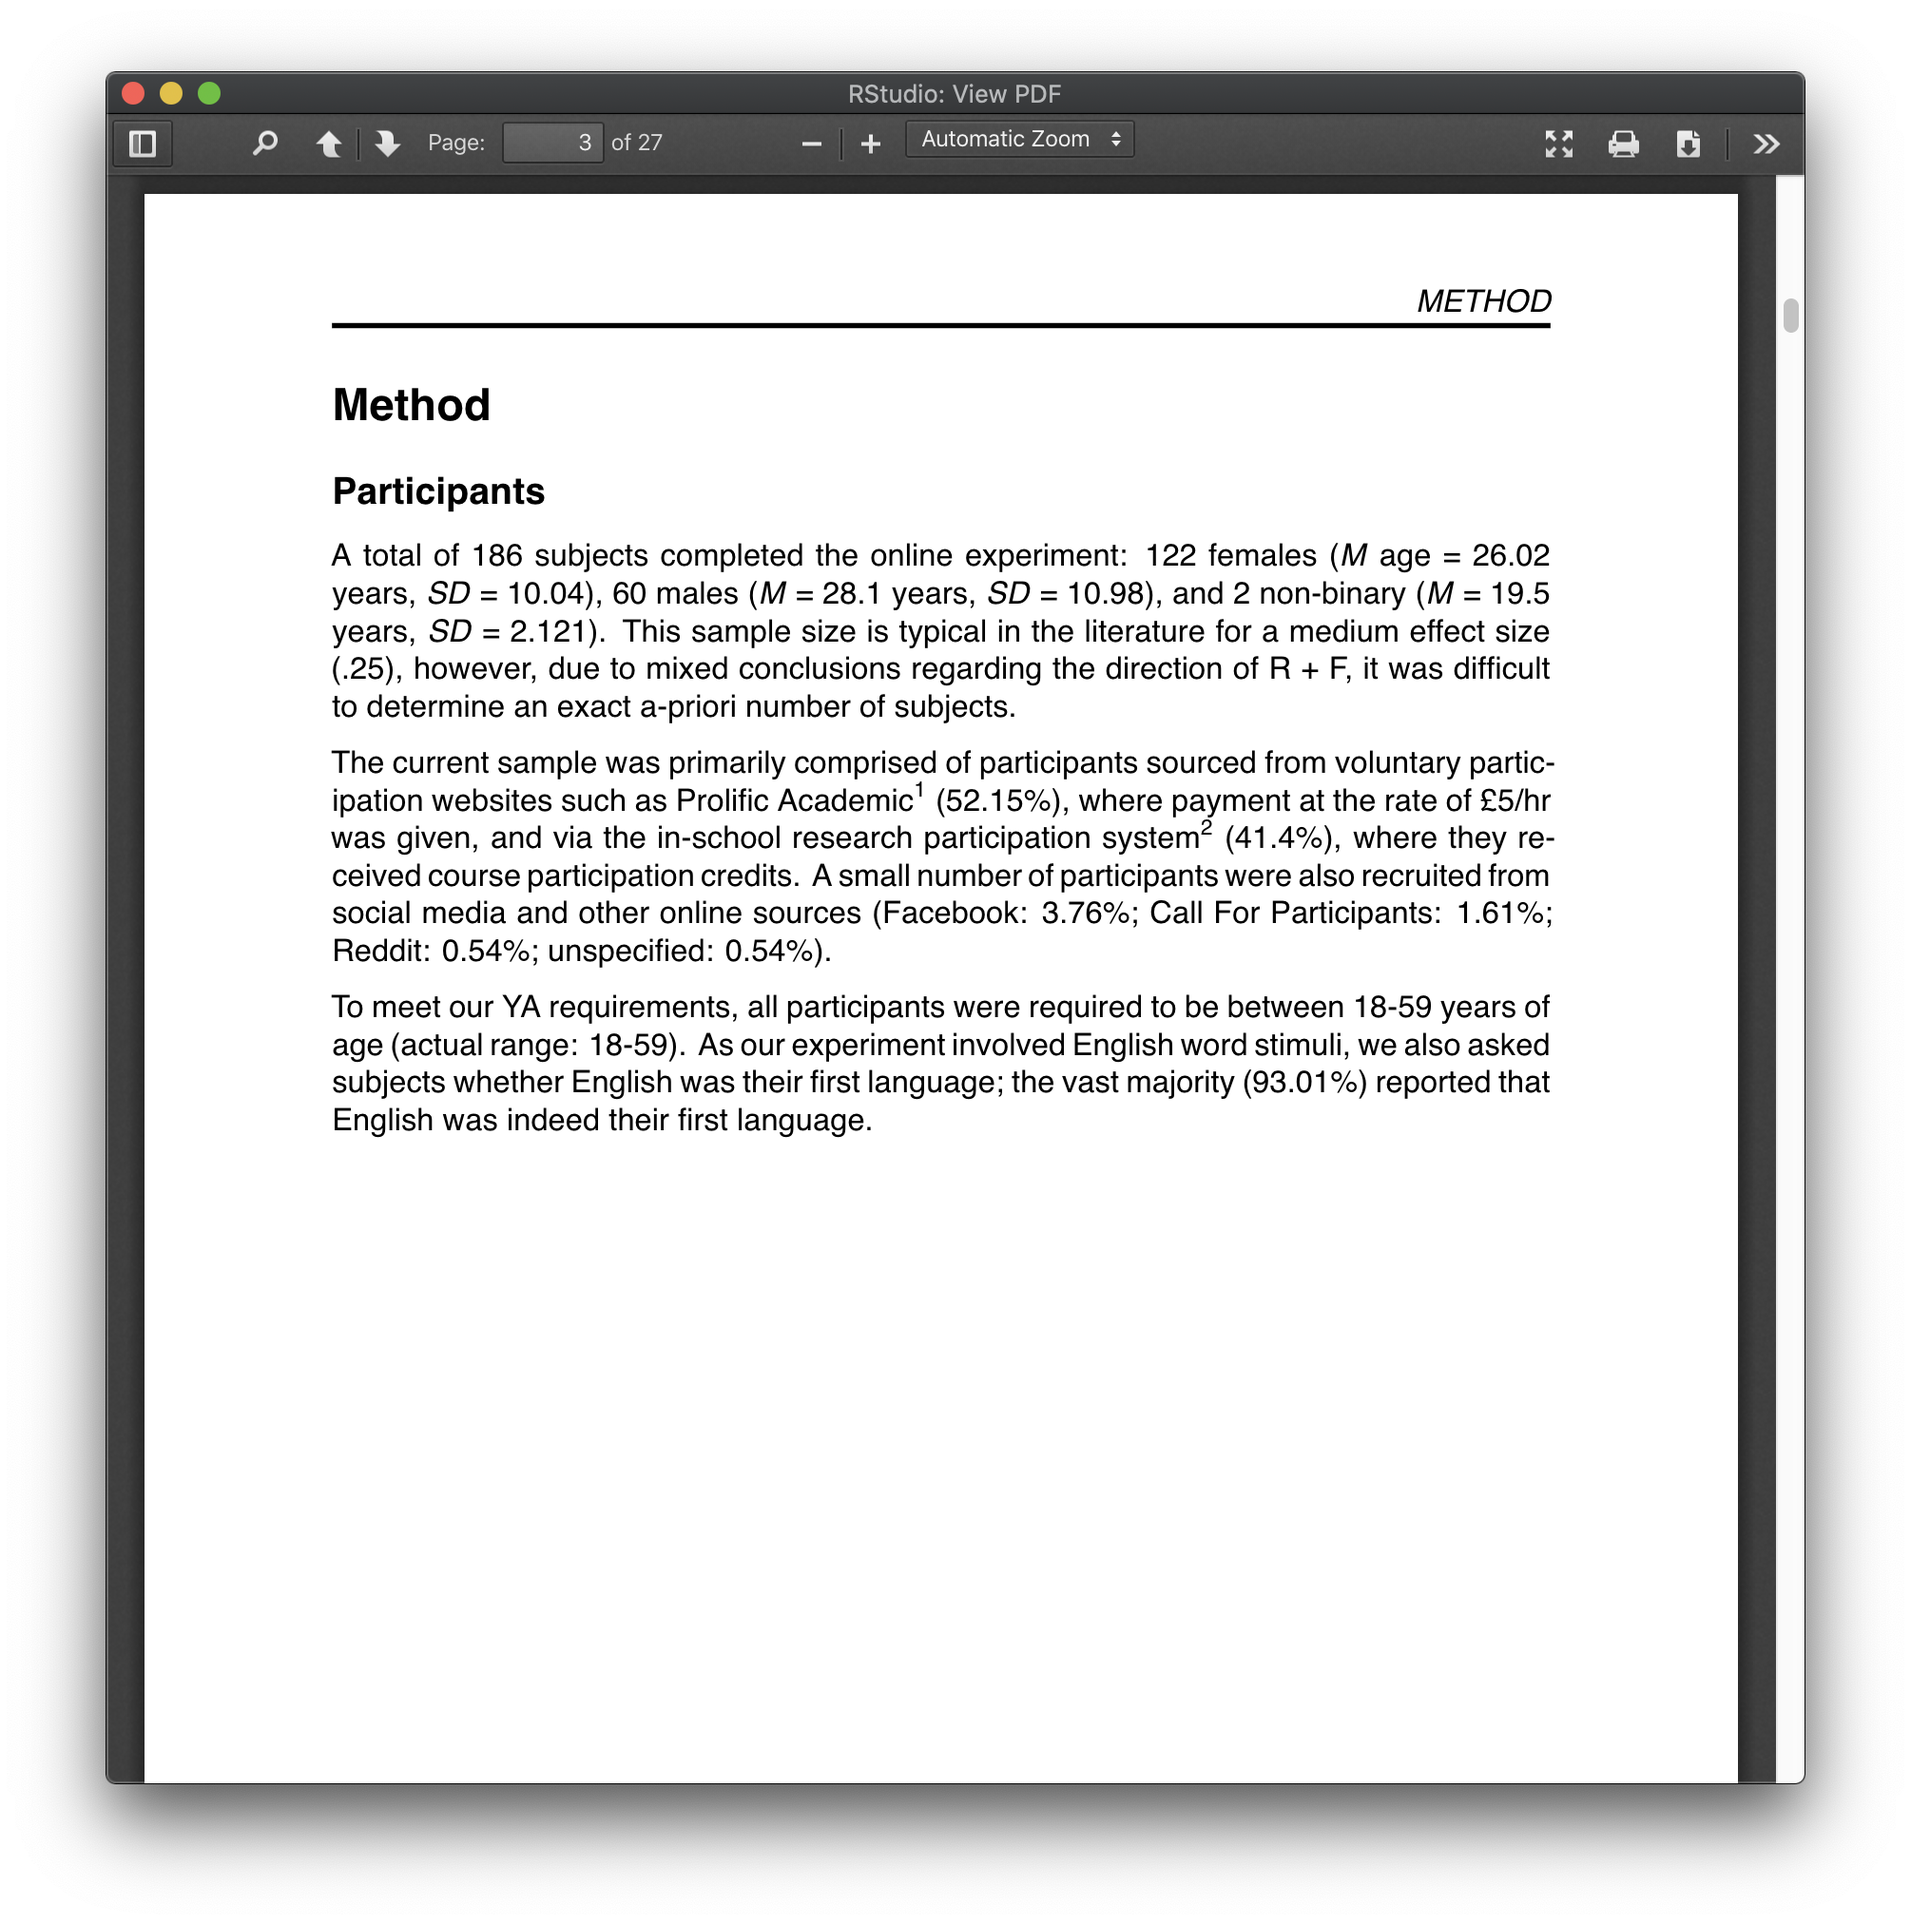
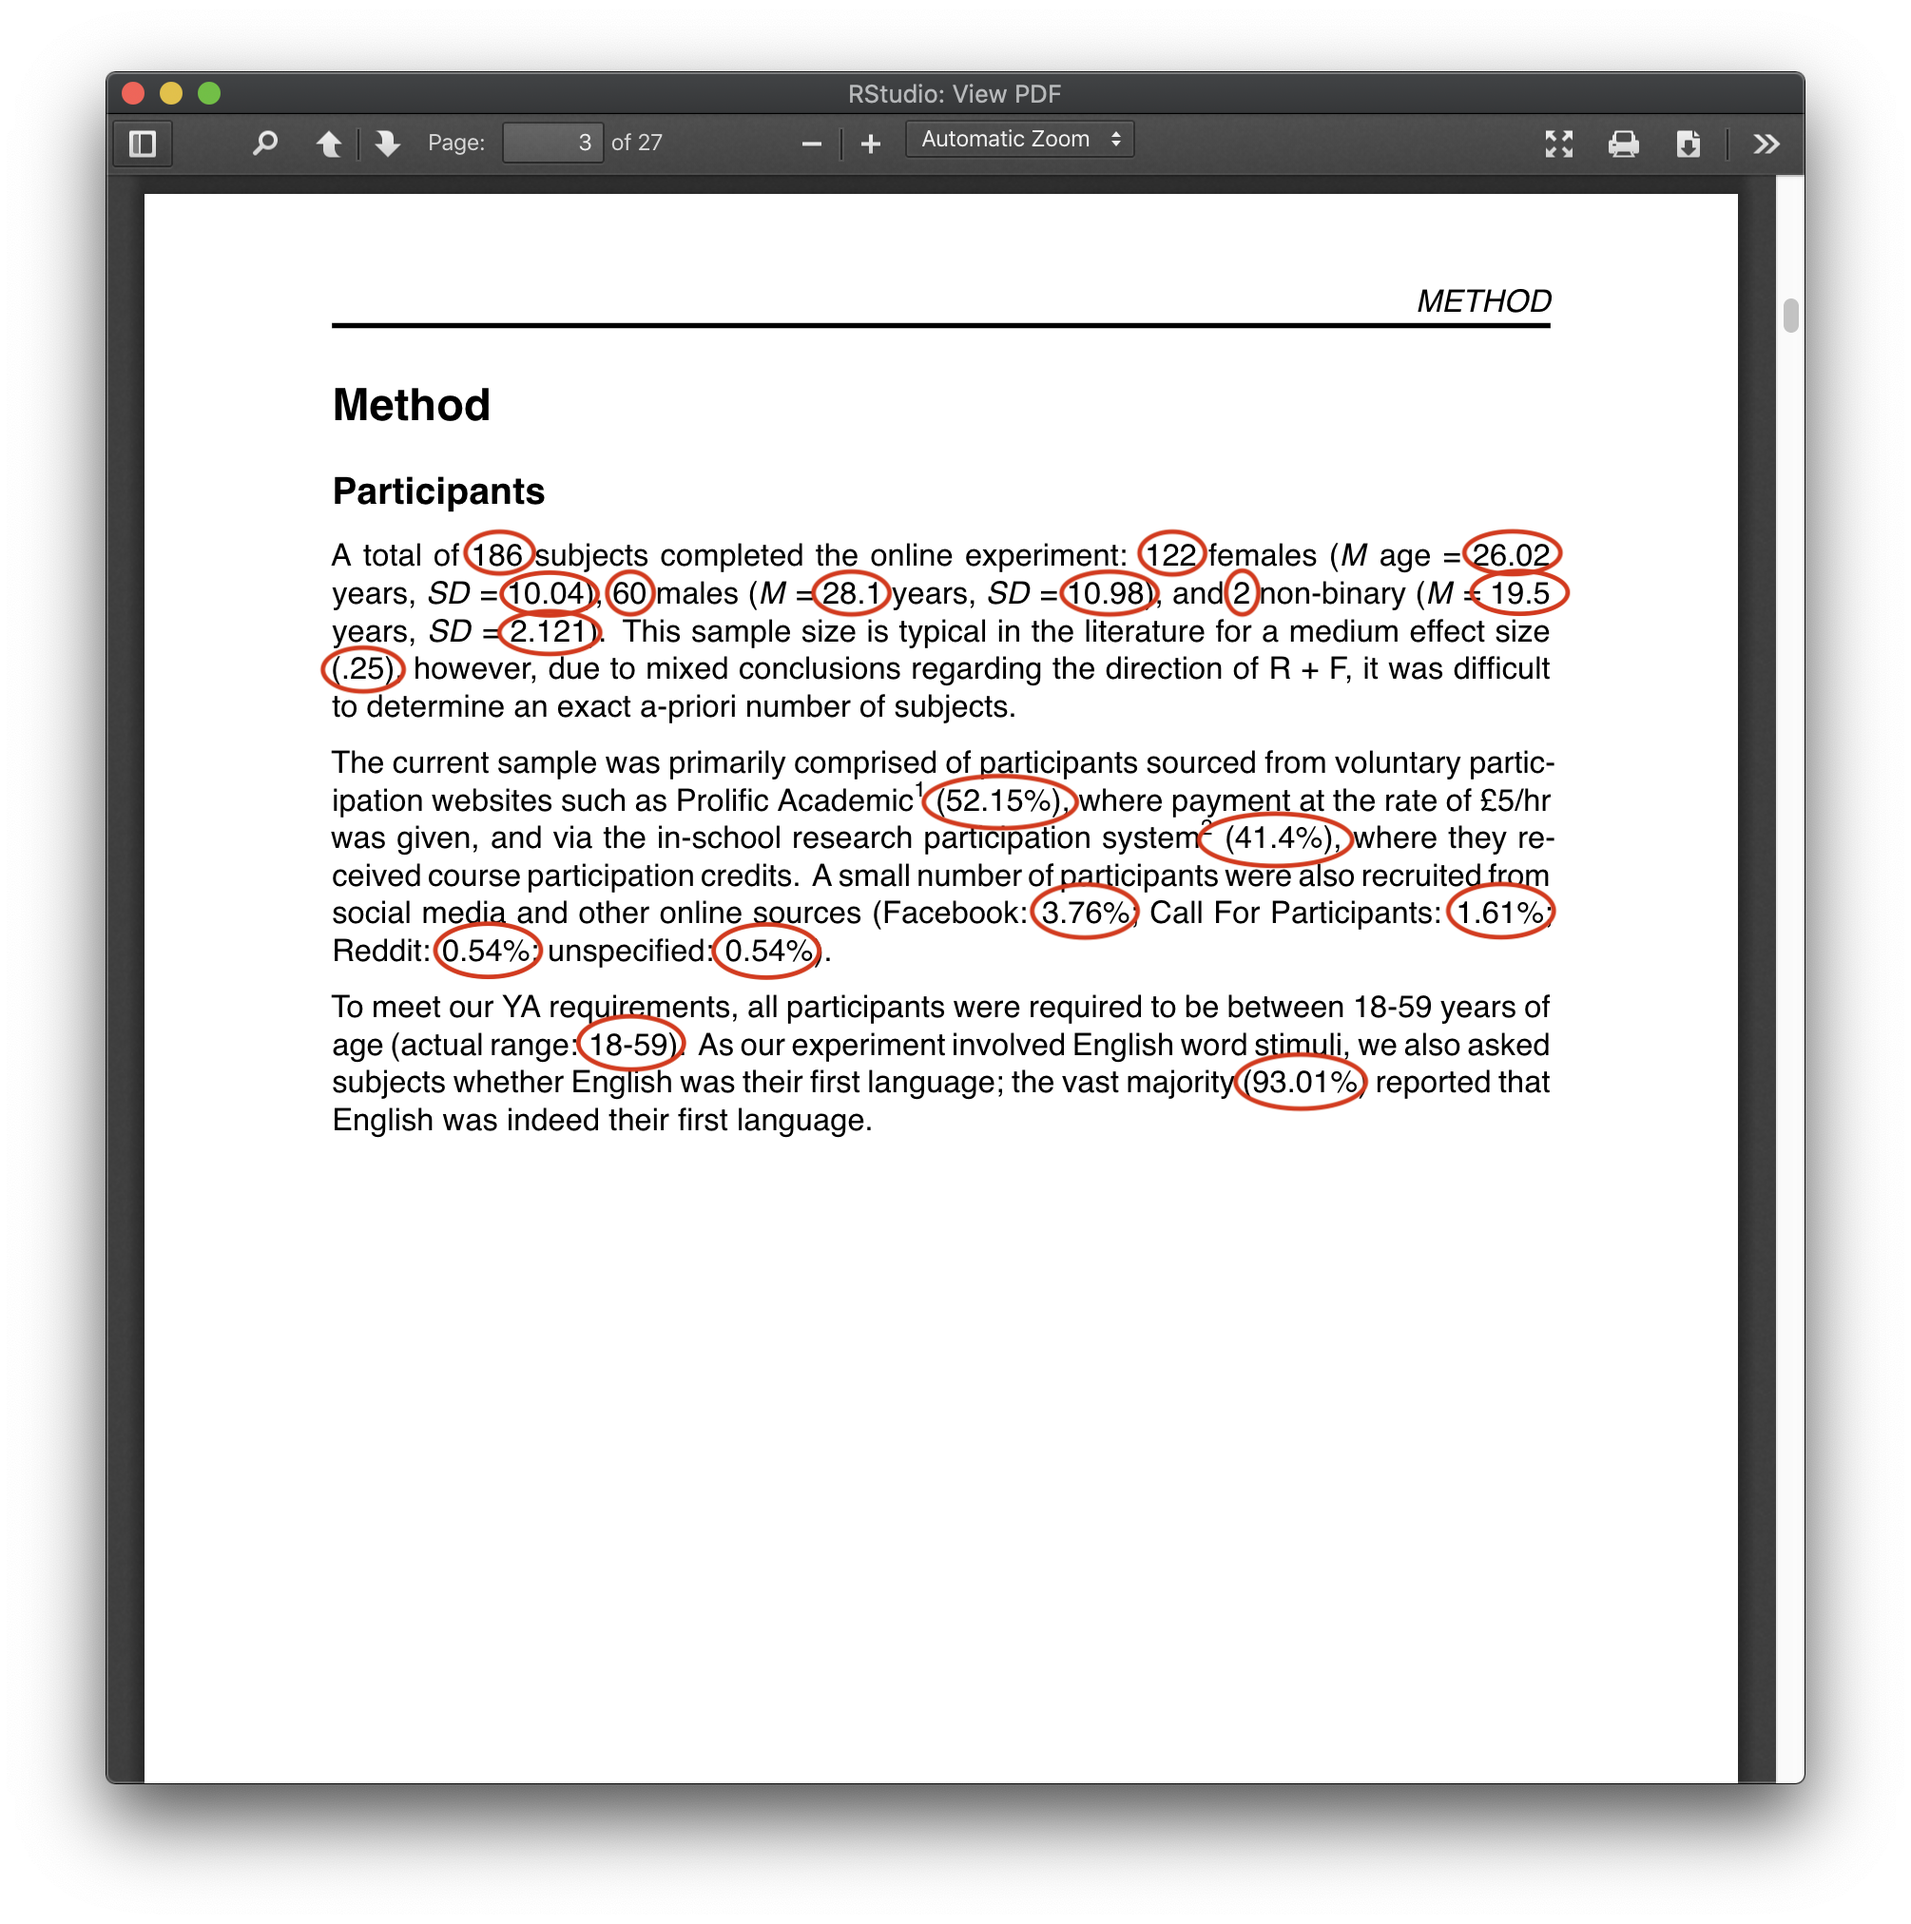
1452

diff --git a/5_reasons_to_write_documents_in_r.html b/5_reasons_to_write_documents_in_r.html
@@ -105,12 +105,15 @@
 <p>If you've completed some of the other guides, you should already be familiar with R Scripts - they're a type of file we use to write R code, which we then execute in the Console. There's another type of file though - RMarkdown - and this is what we use to create documents in R. When we're done, we can easily export the document to PDF or HTML to share with others (or Word, if you really <i>must</i>). The RMarkdown file type offers a plethora of features and benefits:</p>
 
 <h2>1. Reports are always linked to your data:</h2>
-<p>This is by far the most powerful feature of RMarkdown files. Whenever you use numerical values in your writing, exact values can be piped in directly from the data itself:</p>
+<p>This is by far the most powerful feature of RMarkdown files. Whenever you use numerical values in your writing, exact values can be piped in directly from the data:</p>
 
 <img src="images/5_reasons_1.png" alt="Image" class="screenshot-no-border"><br>
 
-<p>Take this demographics section, for instance. Every value you see is piped directly from the data, so we never need to worry about its' accuracy. If we make a change during our analysis - maybe we add a bunch more data - no problem, it'll update all these values automatically!</p>
+<p>Take the above demographics section, for instance. Every value circled is piped directly from the data, so we never need to worry about its' accuracy. If we make a change during our analysis - maybe we add a bunch more data - no problem, it'll update all these values automatically!</p>
 
+<p>This allows you be more descriptive of your sample and data, as you never have to worry about re-calculating things. Take the second paragraph, where the source of our participants is broken down into percentages. If we were to gain more data, it would be a real pain to have to re-caculate all of these again.</p>
+
+<p>There are even packages that write correctly formatted analysis results for you:</p>
 
 
 
@@ -120,7 +123,7 @@
 This means you never have to manually copy the results of your analysis (and worry about getting a number or decimal point in the wrong place). 
 
 
-</p>
+
 <p>Great from an Open Science perspective.</p>
 <p>Ensures your values are always accurate and up-to-date.</p>
 <p>Good if you ever need to gather more data, apply further exclusion criteria, or correct mistakes made during analysis.</p>
